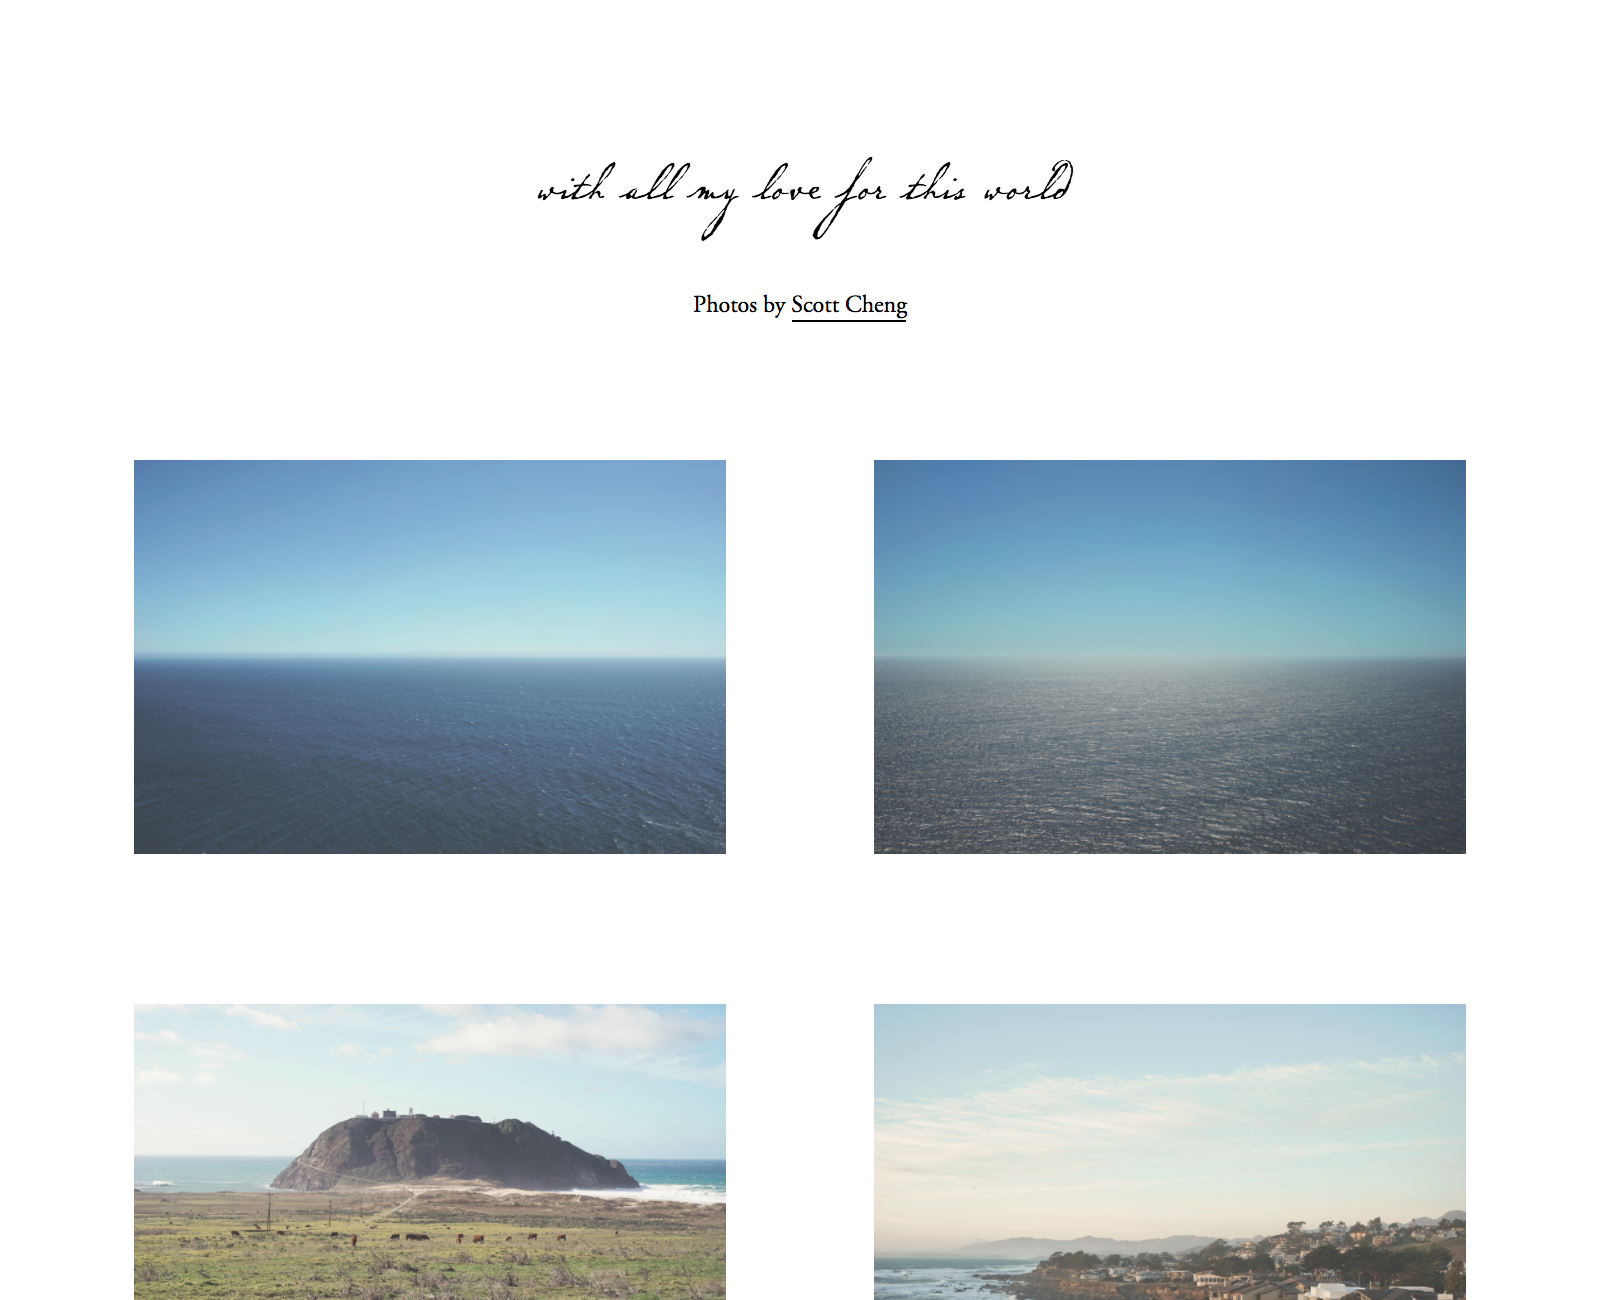
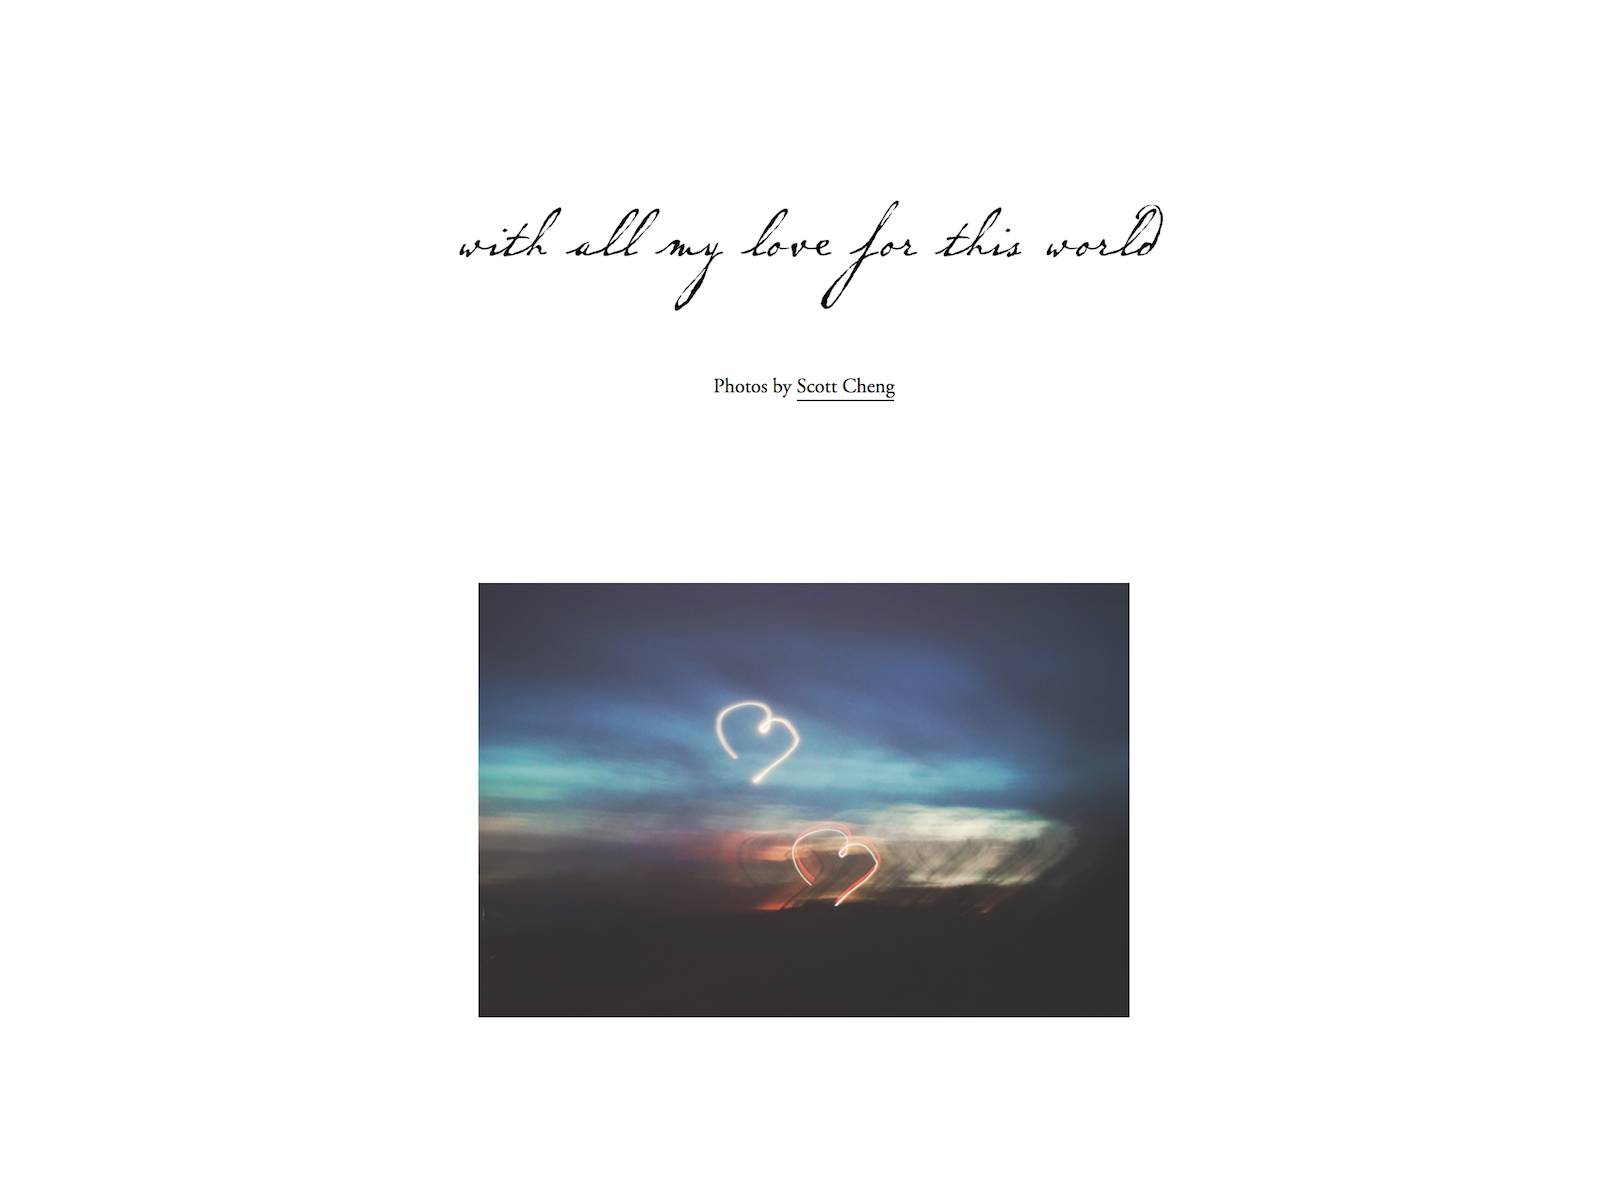
update photo site info

diff --git a/src/views/data.js b/src/views/data.js
@@ -1,109 +1,121 @@
-var marked = require('marked');
+var marked = require("marked");
 
 var projects = [
   {
-    id: 'si',
-    name: 'Si',
+    id: "si",
+    name: "Si",
     description:
-      'An online board game based on [Score Four](https://en.wikipedia.org/wiki/Score_Four), '
-      + 'or 3D Connect Four. '
-      + 'Written in [Reason](https://reasonml.github.io/) and open sourced on '
-      + '[GitHub](https://github.com/scottcheng/si-reason).',
-    link: 'https://scottcheng.github.io/si-reason/',
-    linkText: 'Play',
-    type: 'Game'
+      "An online board game based on [Score Four](https://en.wikipedia.org/wiki/Score_Four), " +
+      "or 3D Connect Four. " +
+      "Written in [Reason](https://reasonml.github.io/) and open sourced on " +
+      "[GitHub](https://github.com/scottcheng/si-reason).",
+    link: "https://scottcheng.github.io/si-reason/",
+    linkText: "Play",
+    type: "Game",
   },
   {
-    id: 'with-all-my-love-for-this-world',
-    name: 'With All My Love For This World',
-    description: 'A landscape photo collection.',
-    link: 'http://withallmyloveforthisworld.com/',
-    linkText: 'See',
-    type: 'Photography',
+    id: "with-all-my-love-for-this-world",
+    name: "With All My Love For This World",
+    description: "My photo collections.",
+    link: "http://withallmyloveforthisworld.com/",
+    linkText: "See",
+    type: "Photography",
   },
   {
-    id: 'o',
+    id: "o",
     name: "and it's just another day",
-    description: 'An animated generative artwork about time and the universe.',
-    link: 'http://anditsjustanotherday.com/',
-    linkText: 'Watch',
-    type: 'Art',
+    description: "An animated generative artwork about time and the universe.",
+    link: "http://anditsjustanotherday.com/",
+    linkText: "Watch",
+    type: "Art",
   },
   {
-    id: 'sparkl',
-    name: 'Sparkl',
-    description: 'Virtual brainstorming for creative collaboration.',
-    link: 'http://sparkl.us',
-    linkText: 'Launch site',
-    type: 'Web app',
+    id: "sparkl",
+    name: "Sparkl",
+    description: "Virtual brainstorming for creative collaboration.",
+    link: "http://sparkl.us",
+    linkText: "Launch site",
+    type: "Web app",
   },
   {
-    id: 'cropit',
-    name: 'cropit',
+    id: "cropit",
+    name: "cropit",
     description: 'A "customizable crop and zoom" jQuery plugin.',
-    link: 'http://scottcheng.github.io/cropit/',
-    linkText: 'See demo',
-    type: 'Code',
+    link: "http://scottcheng.github.io/cropit/",
+    linkText: "See demo",
+    type: "Code",
   },
   {
-    id: 'conversive',
-    name: 'Conversive',
+    id: "conversive",
+    name: "Conversive",
     description:
-      'Bringing real-time classroom-style discussion to MOOC. '
-        + 'Prototype validated on [a popular Coursera course](https://www.coursera.org/course/algo) with real MOOC learners.',
-    link: '/assets/projects/conversive.pdf',
-    linkText: 'Read paper',
-    type: 'Academic / web prototype',
+      "Bringing real-time classroom-style discussion to MOOC. " +
+      "Prototype validated on [a popular Coursera course](https://www.coursera.org/course/algo) with real MOOC learners.",
+    link: "/assets/projects/conversive.pdf",
+    linkText: "Read paper",
+    type: "Academic / web prototype",
   },
   {
-    id: 'cofound',
-    name: 'Co.found',
+    id: "cofound",
+    name: "Co.found",
     description:
-      'Cofounder networking platform for the Stanford community. '
-      + 'Class project for [CS147](http://hci.stanford.edu/cs147/).',
-    link: 'https://co-found.herokuapp.com/',
-    linkText: 'Launch app',
-    type: 'Mobile web app',
+      "Cofounder networking platform for the Stanford community. " +
+      "Class project for [CS147](http://hci.stanford.edu/cs147/).",
+    link: "https://co-found.herokuapp.com/",
+    linkText: "Launch app",
+    type: "Mobile web app",
     browser: false,
   },
   {
-    id: 'weibo',
-    name: 'Weibo Visualization',
-    description: 'An experimental visualization of a Weibo dataset, trying to illustrate the time-wise evolution of topics.',
-    link: 'http://scottcheng.github.io/weibo-time-vis/',
-    linkText: 'Open visualization',
-    type: 'Visualization',
+    id: "weibo",
+    name: "Weibo Visualization",
+    description:
+      "An experimental visualization of a Weibo dataset, trying to illustrate the time-wise evolution of topics.",
+    link: "http://scottcheng.github.io/weibo-time-vis/",
+    linkText: "Open visualization",
+    type: "Visualization",
   },
   {
-    id: 'bj-air',
-    name: 'Visualization of Beijing Air Pollution',
-    description: 'This interactive visualization demonstrates the intensity distribution of several major pollutants in Beijing over two weeks.',
-    link: 'http://scottcheng.github.io/bj-air-vis/',
-    linkText: 'Open visualization',
-    type: 'Visualization',
+    id: "bj-air",
+    name: "Visualization of Beijing Air Pollution",
+    description:
+      "This interactive visualization demonstrates the intensity distribution of several major pollutants in Beijing over two weeks.",
+    link: "http://scottcheng.github.io/bj-air-vis/",
+    linkText: "Open visualization",
+    type: "Visualization",
   },
   {
-    id: 'd3-101',
-    name: 'D3.js 101',
-    description: 'A technical intro to D3.js visualization library.',
-    link: 'http://scottcheng.github.io/d3js-101/',
-    linkText: 'See slides',
-    type: 'Talk',
+    id: "d3-101",
+    name: "D3.js 101",
+    description: "A technical intro to D3.js visualization library.",
+    link: "http://scottcheng.github.io/d3js-101/",
+    linkText: "See slides",
+    type: "Talk",
   },
 ].map(function(p) {
   p.description = marked(p.description);
-  if (p.browser == null) { p.browser = true; }
+  if (p.browser == null) {
+    p.browser = true;
+  }
   return p;
 });
 
 var links = [
-  { id: 'github', link: 'https://github.com/scottcheng', icon: 'github' },
-  { id: 'dribbble', link: 'https://dribbble.com/scottcheng', icon: 'dribbble' },
-  { id: 'instagram', link: 'http://instagram.com/scottcheng', icon: 'instagram' },
-  { id: 'px', link: 'https://500px.com/ycheng', icon: '500px' },
-  { id: 'spotify', link: 'https://open.spotify.com/user/1241319820', icon: 'spotify' },
-  { id: 'twitter', link: 'https://twitter.com/scottcheng', icon: 'twitter' },
-  { id: 'email', link: 'mailto:aloha@scottcheng.com', icon: 'send' },
+  { id: "github", link: "https://github.com/scottcheng", icon: "github" },
+  { id: "dribbble", link: "https://dribbble.com/scottcheng", icon: "dribbble" },
+  {
+    id: "instagram",
+    link: "http://instagram.com/scottcheng",
+    icon: "instagram",
+  },
+  { id: "px", link: "https://500px.com/ycheng", icon: "500px" },
+  {
+    id: "spotify",
+    link: "https://open.spotify.com/user/1241319820",
+    icon: "spotify",
+  },
+  { id: "twitter", link: "https://twitter.com/scottcheng", icon: "twitter" },
+  { id: "email", link: "mailto:aloha@scottcheng.com", icon: "send" },
 ];
 
 module.exports = {
